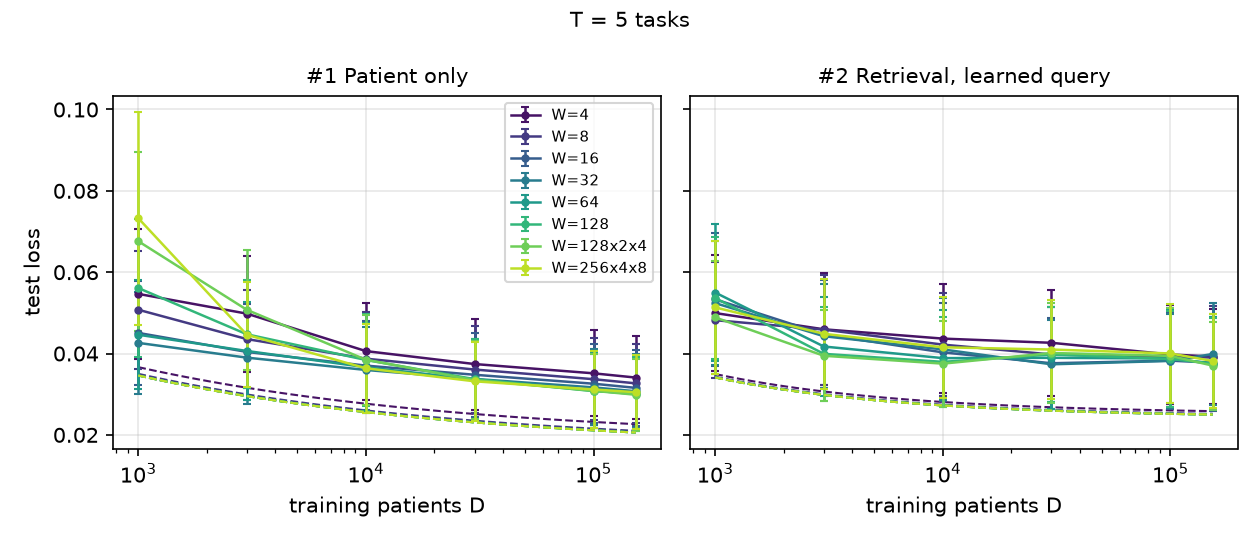
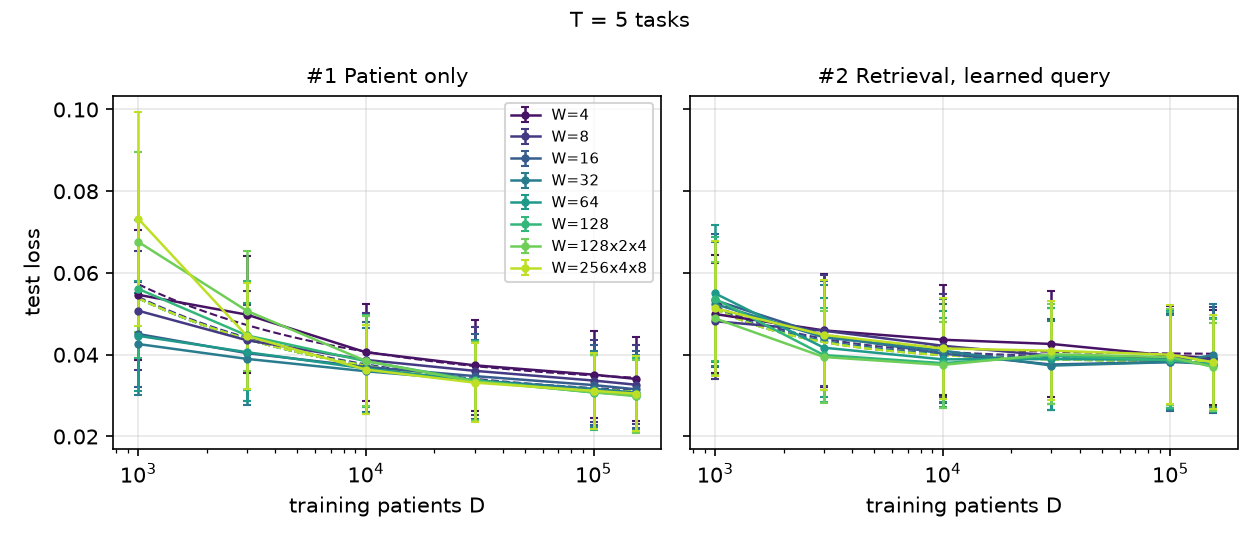
results/scaling_laws: refit on loss; R^2 and RMSE in the fitted-law table

diff --git a/results/scaling_laws/README.md b/results/scaling_laws/README.md
@@ -118,6 +118,8 @@ Compute: $C = 6 \cdot N_{\text{compute}} \cdot D \cdot \text{epochs} \cdot S$.
 - `N`: patient-encoder parameters without the code embedding table.
 - $N_{\text{compute}}$: trainable parameters without embedding tables (encoder, query projector,
   fusion, head).
+- Fit: least squares on test loss over all runs of a configuration and `T`.
+- R²: $1 - SS_{\text{res}} / SS_{\text{tot}}$, over runs and over cell means (mean over draws).
 
 ## 2. Runs
 
@@ -153,21 +155,21 @@ Compute: $C = 6 \cdot N_{\text{compute}} \cdot D \cdot \text{epochs} \cdot S$.
 
 ### Fitted law
 
-| Config | T | E | A | α | B | β |
-|---|---|---|---|---|---|---|
-| #1 | 5 | 0.0167 | 1.71 | 1.29 | 0.145 | 0.30 |
-| #1 | 25 | 0.0195 | 0.0836 | 0.55 | 0.0984 | 0.26 |
-| #1 | 125 | 0.0136 | 0.0178 | 0.34 | 0.0381 | 0.22 |
-| #1 | 625 | 0.0113 | 0.0152 | 0.22 | 0.0317 | 0.10 |
-| #1 | 2500 | 0.0105 | 0.0184 | 0.31 | 0.0289 | 0.09 |
-| #2 | 5 | 0.0243 | 0.591 | 1.26 | 0.359 | 0.52 |
-| #2 | 25 | 0.0285 | 0.0149 | 0.31 | 0.352 | 0.57 |
-| #2 | 125 | 0.0195 | 0.0305 | 0.63 | 0.0882 | 0.47 |
-| #2 | 625 | 0.0248 | 0.035 | 0.66 | 0.0424 | 0.34 |
-| #2 | 2500 | 0.0235 | 0.088 | 0.82 | 0.0288 | 0.28 |
-| #3 | 25 | 0.0270 | 0.0202 | 0.32 | 1.08 | 0.63 |
-| #3 | 625 | 0.0248 | 0.015 | 0.46 | 0.123 | 0.45 |
-| #4 | 625 | 0.0226 | 0.00622 | 0.28 | 0.0207 | 0.18 |
+| Config | T | E | A | α | B | β | R² (runs) | R² (cell means) | RMSE |
+|---|---|---|---|---|---|---|---|---|---|
+| #1 | 5 | 0.0283 | 60.5 | 1.88 | 0.581 | 0.45 | 0.10 | 0.76 | 0.0246 |
+| #1 | 25 | 0.0215 | 0.107 | 0.58 | 0.106 | 0.27 | 0.10 | 0.91 | 0.0141 |
+| #1 | 125 | 0.0146 | 0.0207 | 0.36 | 0.0458 | 0.25 | 0.26 | 0.95 | 0.0039 |
+| #1 | 625 | 0.0141 | 0.0161 | 0.23 | 0.0327 | 0.13 | 0.58 | 0.96 | 0.0023 |
+| #1 | 2500 | 0.0137 | 0.0203 | 0.33 | 0.0285 | 0.11 | 0.90 | 0.95 | 0.0008 |
+| #2 | 5 | 0.0382 | 0.0558 | 0.65 | 5.87 | 0.89 | 0.03 | 0.88 | 0.0254 |
+| #2 | 25 | 0.0307 | 0.0139 | 0.27 | 0.274 | 0.53 | 0.03 | 0.92 | 0.0156 |
+| #2 | 125 | 0.0200 | 0.0244 | 0.58 | 0.0947 | 0.48 | 0.08 | 0.90 | 0.0041 |
+| #2 | 625 | 0.0249 | 0.0277 | 0.61 | 0.0405 | 0.33 | 0.21 | 0.89 | 0.0025 |
+| #2 | 2500 | 0.0236 | 0.0706 | 0.78 | 0.0296 | 0.28 | 0.69 | 0.90 | 0.0008 |
+| #3 | 25 | 0.0289 | 0.0162 | 0.24 | 1.4 | 0.66 | 0.10 | 0.98 | 0.0159 |
+| #3 | 625 | 0.0248 | 0.0123 | 0.40 | 0.126 | 0.45 | 0.36 | 0.95 | 0.0025 |
+| #4 | 625 | 0.0226 | 0.0055 | 0.24 | 0.0208 | 0.18 | 0.26 | 1.00 | 0.0024 |
 
 ## 4. Plots
 
